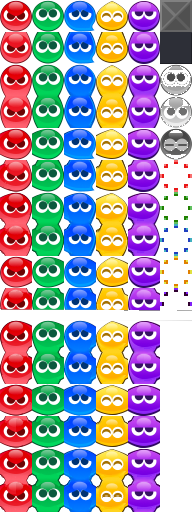
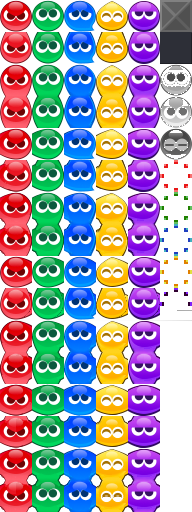
fix(render): UR body fill, fall-aware connections, mochi bounce, settle gating
Round-3 playtest pass. Seven coupled fixes for the visible behaviour
players reported.

### Visuals

- Re-paint row 9 (UR) of the sprite sheet by OR-merging row 1 (U-only)
  with row 8 (R-only). The artist asset had a body that only filled
  the upper ~22 rows of the cell, leaving a transparent band that read
  as a black stripe along the bottom of any up-and-right connection.
  The merged version keeps the U flat-top and the R flat-right while
  preserving the rounded bottom-left corner.
- Pop burst grain peak radius reduced from 12 → 8.4 px (70%); base
  shrunk in proportion. Particles no longer overpower the silhouettes.
- Bounce on impact lengthened (8 → 14 frames) and softened: an
  asymmetric quick-down / slow-out curve gives the squish a mochi
  feel instead of a stiff pop. Peak deformation reduced (0.12/0.22
  → 0.08/0.14).
- While a board cell is mid-air it now uses the no-connection texture.
  The connection-aware sprite is only swapped in once `tickFall` lands
  the cell, so falling puyos keep their unattached shape until they
  actually touch the stack.

### Timing

- `LOCK_DELAY_FRAMES` 15 → 18 (0.25s → 0.3s grace on touchdown), per
  the request for a longer "place-confirm" window.
- New `applyGravityWithFall` returns the longest single-cell fall in
  addition to the changed flag.
- Resolve ticks and chigiri phases now stretch dynamically using that
  number: tick window = `POP_FRAMES + maxFall * FALL_FRAMES_PER_CELL +
[…]

Changed region(s): [[0.0, 0.5625, 0.8438, 0.625]]

diff --git a/packages/shared/src/rules/simulator.ts b/packages/shared/src/rules/simulator.ts
@@ -33,7 +33,7 @@ import {
   placeOjama,
   selectTarget,
 } from './garbage';
-import { applyGravity, hasFloatingCells } from './gravity';
+import { applyGravityWithFall, hasFloatingCells } from './gravity';
 import { type Piece, createPiece, getChildPos } from './piece';
 import { Xorshift32 } from './rng';
 import { tryMove, tryRotate } from './rotate';
@@ -46,20 +46,34 @@ import { trySpawn } from './spawn';
 // initial 30f (0.5s) baseline based on playtest feel.
 export const FALL_INTERVAL_NORMAL = 36;
 export const FALL_INTERVAL_SOFT = 2;
-export const LOCK_DELAY_FRAMES = 15;
+// 18 frames = 0.3s at 60fps. The grace window between a piece touching
+// the ground and locking — gives the player a beat to slide it sideways.
+export const LOCK_DELAY_FRAMES = 18;
 export const LOCK_RESET_LIMIT = 8;
-// Chigiri (split-drop) phase. Long enough for a tall column to be
-// visibly seen falling at the renderer's gravity-fall speed.
+// Per-cell visual fall time. Mirrors the renderer's FALL_SPEED
+// (CELL_SIZE / 5 = 8 px/frame) — keep in sync if either is tuned.
+export const FALL_FRAMES_PER_CELL = 5;
+// Frames to hold after a fall lands so the bounce/squish animation can
+// finish before the next chain tick or the next piece spawns.
+export const POST_FALL_SETTLE_FRAMES = 8;
+// Chigiri (split-drop) phase. The piece sits at its locked position
+// for this many frames before gravity is applied; after gravity, the
+// phase extends by `maxFall * FALL_FRAMES_PER_CELL + POST_FALL_SETTLE`
+// so the visual fall is always allowed to complete before resolving.
 export const CHIGIRI_FRAMES = 40;
-// One chain tick in frames. Covers the full clear animation cycle
-// (pop → collapse). Stretched to give the pop a long, readable window.
+// One chain tick in frames. Pop animation runs from frame 0 to
+// POP_FRAMES; gravity fires at POP_FRAMES. The remaining frames cover
+// the visible fall — the tick stretches dynamically per
+// `applyChainTick`'s reported `maxFall` so that even tall collapses
+// finish before the next pop check.
 export const RESOLVE_TICK_FRAMES = 60;
 // Sub-phase split inside a resolve tick:
 //   0..POP_FRAMES-1      pop animation (cells still on the board)
 //   at POP_FRAMES        clusters cleared, ojama swept, gravity applied
-//   POP_FRAMES..RESOLVE  renderer shows the settled board but animates
-//                        the fall of the cells that just moved
+//   POP_FRAMES..tickEnd  renderer animates the fall + bounce
 export const POP_FRAMES = 32;
+// 18 frames = 0.3s at 60fps. Always-on breather between resolving and
+// the next spawn so the field state is readable.
 export const WAIT_GARBAGE_FRAMES = 18;
 export const DEAD_FRAMES = 60;
 export const COUNTDOWN_FRAMES = 180;
@@ -107,6 +121,19 @@ interface ResolvingData {
   tickFrame: number;
   /** Set once `applyChainTick` has committed this tick's board changes. */
   applied?: boolean;
+  /**
+   * Effective end frame for this tick. Computed at apply-time from the
+   * gravity result so a long fall stretches the tick instead of having
+   * the next pop fire while puyos are still mid-air.
+   */
+  tickEndFrame?: number;
+}
+
+interface ChigiriData {
+  /** Whether gravity has already been applied this chigiri. */
+  applied: boolean;
+  /** End frame for the entire chigiri phase, including post-fall settle. */
+  endFrame: number;
 }
 
 export interface PlayerState {
@@ -132,6 +159,8 @@ export interface PlayerState {
   softDrop: boolean;
   // Resolving-phase transient state
   resolvingData: ResolvingData | null;
+  // Chigiri-phase transient state
+  chigiriData: ChigiriData | null;
 }
 
 // Structural check: PlayerState must satisfy TargetablePlayer so that
@@ -228,6 +257,7 @@ export function createMatchState(config: MatchConfig): MatchState {
     lockResets: 0,
     softDrop: false,
     resolvingData: null,
+    chigiriData: null,
   }));
 
   const startWithCountdown = config.startWithCountdown ?? false;
@@ -463,11 +493,19 @@ function onLock(match: MatchState, player: PlayerState): void {
 
 function handleChigiri(_match: MatchState, player: PlayerState): void {
   player.phaseFrame++;
-  if (player.phaseFrame >= CHIGIRI_FRAMES) {
-    // Commit gravity now and move on. The renderer will detect the
-    // change and animate the fall (its own clock continues across
-    // phase boundaries).
-    applyGravity(player.board);
+  if (!player.chigiriData) {
+    if (player.phaseFrame < CHIGIRI_FRAMES) return;
+    // First, commit gravity. Track the longest fall so the phase can
+    // be extended just enough for the visual fall to land before we
+    // hand off to resolving — without this, the next tick (or next
+    // spawn, when no chain follows) starts while puyos are mid-air.
+    const { maxFall } = applyGravityWithFall(player.board);
+    player.chigiriData = {
+      applied: true,
+      endFrame: player.phaseFrame + maxFall * FALL_FRAMES_PER_CELL + POST_FALL_SETTLE_FRAMES,
+    };
+  }
+  if (player.phaseFrame >= player.chigiriData.endFrame) {
     enterResolving(player);
   }
 }
@@ -477,6 +515,7 @@ function enterResolving(player: PlayerState): void {
   player.phaseFrame = 0;
   player.chainCount = 0;
   player.resolvingData = null;
+  player.chigiriData = null;
 }
 
 // ---------- resolving ----------
@@ -495,13 +534,20 @@ function handleResolving(match: MatchState, player: PlayerState): void {
 
   const data = player.resolvingData;
   data.tickFrame++;
-  // Apply the logical tick (clear + gravity + score) halfway through
-  // so the renderer can spend the second half animating the fall.
+  // Apply the logical tick (clear + gravity + score) at POP_FRAMES so
+  // the renderer spends the rest of the tick animating the fall.
   if (data.tickFrame === POP_FRAMES && !data.applied) {
-    applyChainTick(match, player, data.pendingClusters);
+    const maxFall = applyChainTick(match, player, data.pendingClusters);
     data.applied = true;
+    // Stretch this tick so the next pop can't fire until the longest
+    // fall has visually landed and bounced.
+    data.tickEndFrame = Math.max(
+      RESOLVE_TICK_FRAMES,
+      POP_FRAMES + maxFall * FALL_FRAMES_PER_CELL + POST_FALL_SETTLE_FRAMES,
+    );
   }
-  if (data.tickFrame < RESOLVE_TICK_FRAMES) return;
+  const tickEnd = data.tickEndFrame ?? RESOLVE_TICK_FRAMES;
+  if (data.tickFrame < tickEnd) return;
 
   // Safety net: make sure the tick has been applied even if constants
   // were changed to equal values.
@@ -515,7 +561,7 @@ function applyChainTick(
   match: MatchState,
   player: PlayerState,
   clusters: readonly Cluster[],
-): void {
+): number {
   // 1. Sweep ojama adjacent to popping cells (visible area only).
   const ojamaToClear = new Set<number>();
   for (const cluster of clusters) {
@@ -539,8 +585,9 @@ function applyChainTick(
     setCell(player.board, x, y, null);
   }
 
-  // 3. Gravity.
-  applyGravity(player.board);
+  // 3. Gravity. Track the longest fall so the caller can stretch the
+  //    tick window to cover the visible fall animation.
+  const { maxFall } = applyGravityWithFall(player.board);
 
   // 4. Chain counter.
   player.chainCount++;
@@ -579,6 +626,8 @@ function applyChainTick(
     sent,
     targetPlayerId: targetId,
   });
+
+  return maxFall;
 }
 
 function neighbors4(x: number, y: number): readonly [number, number][] {

diff --git a/packages/client/src/renderer/FieldRenderer.ts b/packages/client/src/renderer/FieldRenderer.ts
@@ -42,10 +42,18 @@ const BASE_SCALE = CELL_SIZE / SHEET_CELL; // 40 / 32 = 1.25
 const ROTATION_FRAMES = 6;
 /** Lerp factor for smoothed soft-drop descent (per render frame). */
 const SOFT_DROP_LERP = 0.35;
-/** Gravity-fall speed in pixels per render frame (uniform across columns). */
-const FALL_SPEED = CELL_SIZE / 5; // 8 px/frame — slightly less than 1 cell per 5 frames.
-/** Duration of the post-fall gummy bounce, in render frames. */
-const BOUNCE_FRAMES = 8;
+/**
+ * Gravity-fall speed in pixels per render frame (uniform across columns).
+ * Stays in sync with the simulator's `FALL_FRAMES_PER_CELL = 5` so that
+ * the resolve / chigiri tick windows correctly cover the visible fall.
+ */
+const FALL_SPEED = CELL_SIZE / 5; // 8 px/frame — 1 cell per 5 frames.
+/**
+ * Duration of the post-fall gummy bounce, in render frames. A longer
+ * window with a softer scale gives the impact a "mochi" squish — slow
+ * push down, then easing back — instead of a sharp pop.
+ */
+const BOUNCE_FRAMES = 14;
 /** Average frames between idle-blink attempts per puyo. */
 const IDLE_BLINK_AVG_INTERVAL = 240; // ~4s at 60fps
 /** How long one idle blink lasts. */
@@ -220,7 +228,6 @@ export class FieldRenderer {
 
   private createBoardSprite(spec: FieldSprite): BoardEntry {
     const container = new Container();
-    const sprite = makeSprite(this.sheet.get(spec.cellKind, spec.connections));
     const leftEyelid = makeEyelid();
     leftEyelid.x = -EYE_OFFSET_X;
     leftEyelid.y = EYE_OFFSET_Y;
@@ -229,9 +236,6 @@ export class FieldRenderer {
     rightEyelid.x = EYE_OFFSET_X;
     rightEyelid.y = EYE_OFFSET_Y;
     rightEyelid.visible = false;
-    container.addChild(sprite);
-    container.addChild(leftEyelid);
-    container.addChild(rightEyelid);
 
     container.x = spec.x;
 
@@ -248,6 +252,18 @@ export class FieldRenderer {
         this.boardSprites.delete(sourceId);
       }
     }
+
+    // While the puyo is mid-air the connection mask must NOT reflect
+    // the landing-cell neighbours, otherwise the body shape mutates
+    // before it actually touches the stack. Use the no-connection
+    // texture during the fall; `tickFall` swaps in the proper
+    // connection texture once the cell lands.
+    const sprite = makeSprite(
+      this.sheet.get(spec.cellKind, falling ? undefined : spec.connections),
+    );
+    container.addChild(sprite);
+    container.addChild(leftEyelid);
+    container.addChild(rightEyelid);
 
     container.y = fallFromY;
     const snap: CellSnapshot = {
@@ -271,14 +287,24 @@ export class FieldRenderer {
   }
 
   private updateExistingBoardSprite(entry: BoardEntry, spec: FieldSprite): void {
-    entry.sprite.texture = this.sheet.get(spec.cellKind, spec.connections);
     entry.container.x = spec.x;
     if (entry.snap.targetY !== spec.y) {
       entry.snap.targetY = spec.y;
       entry.snap.falling = entry.snap.displayY < spec.y;
       entry.snap.bounceFrame = -1;
+      // Mid-air: drop back to a connectionless texture so the shape
+      // matches an unattached puyo until it lands.
+      if (entry.snap.falling) {
+        entry.sprite.texture = this.sheet.get(spec.cellKind);
+      }
     }
     this.tickFall(entry);
+    // Only adopt the connection-aware sprite once the cell is settled
+    // — `tickFall` flips `falling` to false on the landing frame, so
+    // the texture swap reads as "click in" with the bounce.
+    if (!entry.snap.falling) {
+      entry.sprite.texture = this.sheet.get(spec.cellKind, spec.connections);
+    }
     this.tickIdleBlink(entry);
     this.tickLookAround(entry);
     this.applyVisualState(entry, spec);
@@ -385,12 +411,15 @@ export class FieldRenderer {
       alpha *= popAlpha;
     }
 
-    // Bounce: short squish on impact.
+    // Bounce: a slow mochi-squish on impact. Asymmetric curve — quick
+    // squish down on the way in, slow ease back out — so it reads like
+    // soft rice cake settling rather than a stiff pop.
     if (entry.snap.bounceFrame >= 0 && entry.snap.bounceFrame < BOUNCE_FRAMES) {
       const t = entry.snap.bounceFrame / BOUNCE_FRAMES;
-      const bend = Math.sin(t * Math.PI);
-      scaleX *= 1 + 0.12 * bend;
-      scaleY *= 1 - 0.22 * bend;
+      // Cube-root rise (fast) for t < 0.3, then a long ease-out tail.
+      const bend = t < 0.3 ? (t / 0.3) ** 0.5 : 1 - ((t - 0.3) / 0.7) ** 1.4;
+      scaleX *= 1 + 0.08 * bend;
+      scaleY *= 1 - 0.14 * bend;
     }
 
     s.scale.set(scaleX, scaleY);
@@ -519,8 +548,11 @@ export class FieldRenderer {
       const t = 1 - p.life / p.maxLife; // 0..1 across the lifetime
       // Size ramp: small → big → small. Bell curve via sin(πt).
       const ramp = Math.sin(t * Math.PI);
-      const peak = 12; // px max radius
-      p.graphic.scale.set(2 + peak * ramp);
+      // Peak radius reduced from 12 → 8.4px (70% of the original) and
+      // the base shrunk in proportion, per playtest feedback that the
+      // burst grains were overpowering the puyo silhouettes.
+      const peak = 8.4;
+      p.graphic.scale.set(1.4 + peak * ramp);
       p.graphic.alpha = Math.min(1, ramp * 1.4);
       if (p.life <= 0) {
         this.burstLayer.removeChild(p.graphic);

diff --git a/packages/shared/src/rules/gravity.ts b/packages/shared/src/rules/gravity.ts
@@ -17,14 +17,34 @@ import { BOARD_HEIGHT, BOARD_WIDTH, type Board, type Cell } from './board';
  * Mutates `board` in place. Returns `true` if any cell moved.
  */
 export function applyGravity(board: Board): boolean {
+  return applyGravityWithFall(board).changed;
+}
+
+export interface GravityResult {
+  changed: boolean;
+  /** Largest single-cell fall distance (in board cells) across all columns. */
+  maxFall: number;
+}
+
+/**
+ * Same as `applyGravity`, but also reports the longest distance any
+ * single cell fell. The caller uses this to size the visual settle
+ * window so chain ticks don't fire while puyos are still mid-air.
+ */
+export function applyGravityWithFall(board: Board): GravityResult {
   let changed = false;
+  let maxFall = 0;
   for (let x = 0; x < BOARD_WIDTH; x++) {
-    // Collect non-empty cells from bottom to top.
+    // Collect non-empty cells (bottom→top) along with their original y.
     const stack: Cell[] = [];
+    const sourceY: number[] = [];
     for (let y = 0; y < BOARD_HEIGHT; y++) {
       const row = board.cells[y] as Cell[];
       const cell = row[x] as Cell;
-      if (cell.kind !== null) stack.push(cell);
+      if (cell.kind !== null) {
+        stack.push(cell);
+        sourceY.push(y);
+      }
     }
     // Write them back, padding the top with empty cells.
     for (let y = 0; y < BOARD_HEIGHT; y++) {
@@ -32,10 +52,14 @@ export function applyGravity(board: Board): boolean {
       const current = row[x] as Cell;
       const next = y < stack.length ? (stack[y] as Cell) : { kind: null };
       if (current.kind !== next.kind) changed = true;
+      if (y < stack.length) {
+        const fall = (sourceY[y] as number) - y;
+        if (fall > maxFall) maxFall = fall;
+      }
       row[x] = next;
     }
   }
-  return changed;
+  return { changed, maxFall };
 }
 
 /**

diff --git a/packages/shared/src/rules/simulator.test.ts b/packages/shared/src/rules/simulator.test.ts
@@ -5,6 +5,7 @@ import {
   COUNTDOWN_FRAMES,
   DEAD_FRAMES,
   type MatchState,
+  POST_FALL_SETTLE_FRAMES,
   RESOLVE_TICK_FRAMES,
   WAIT_GARBAGE_FRAMES,
   advanceFrame,
@@ -302,13 +303,18 @@ describe('waitGarbage phase', () => {
 // --------------------------------------------------------------
 
 describe('chigiri phase', () => {
-  it('runs for exactly 12 frames then transitions to resolving', () => {
+  it('waits the pre-gravity hold then a post-fall settle before resolving', () => {
+    // The test forces chigiri on an empty board, so gravity moves no
+    // cells and `maxFall` is 0. The phase still pads the post-gravity
+    // window by `POST_FALL_SETTLE_FRAMES` so any in-flight bounce can
+    // finish — total length = CHIGIRI_FRAMES + POST_FALL_SETTLE_FRAMES.
     const match = createMatchState({ seed: 1, colorMode: 4, players: [{ id: 'A' }] });
     const p = match.players[0]!;
     p.phase = 'chigiri';
     p.phaseFrame = 0;
 
-    for (let i = 0; i < CHIGIRI_FRAMES - 1; i++) {
+    const totalChigiriLength = CHIGIRI_FRAMES + POST_FALL_SETTLE_FRAMES;
+    for (let i = 0; i < totalChigiriLength - 1; i++) {
       advanceFrame(match);
       expect(p.phase).toBe('chigiri');
     }
